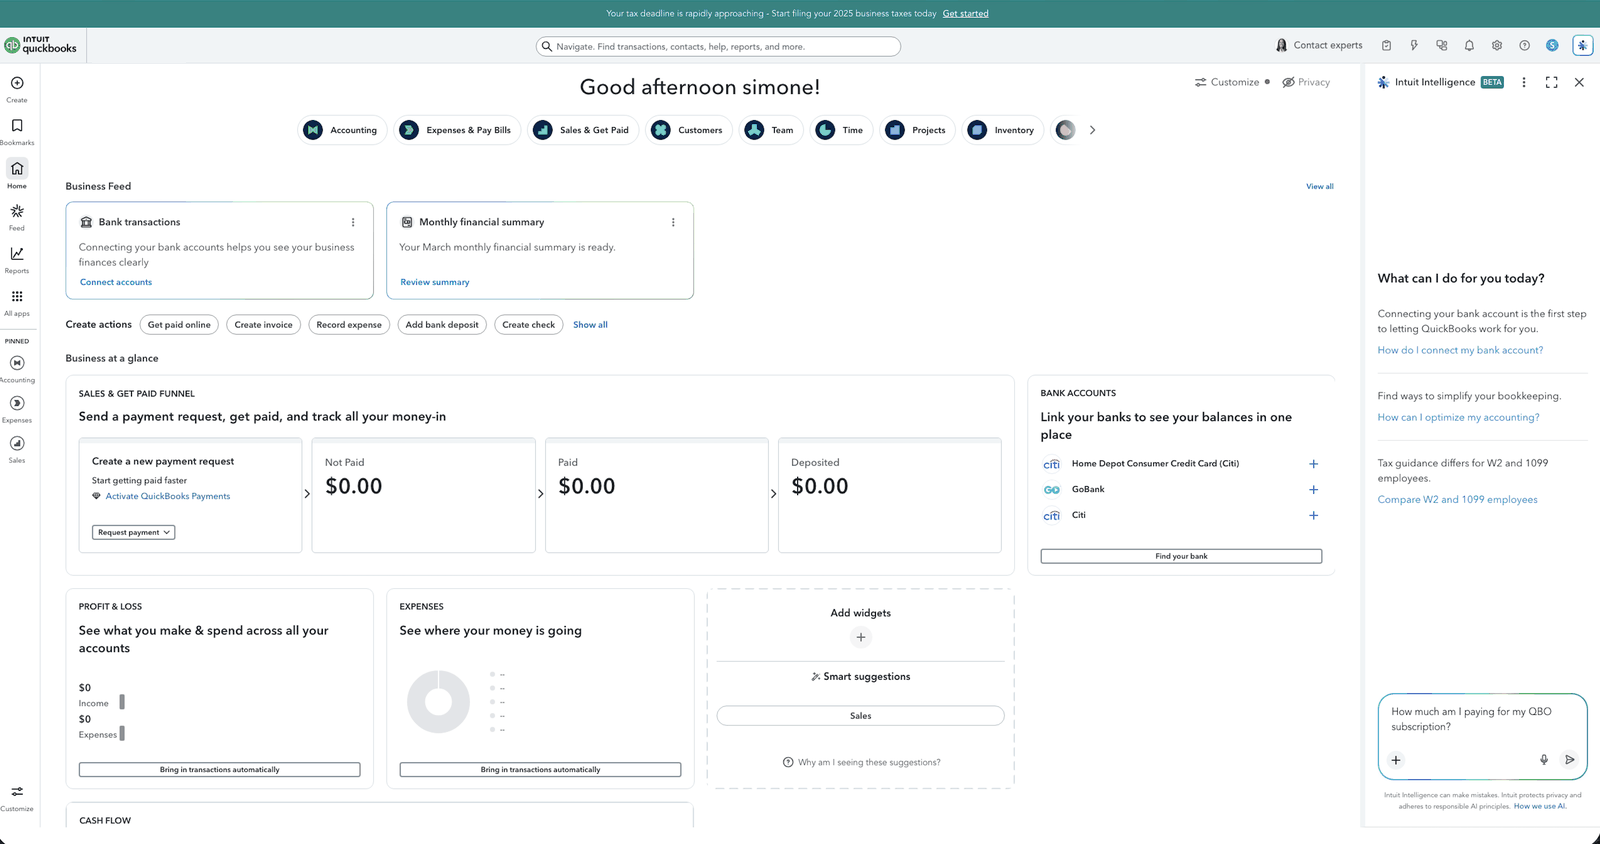
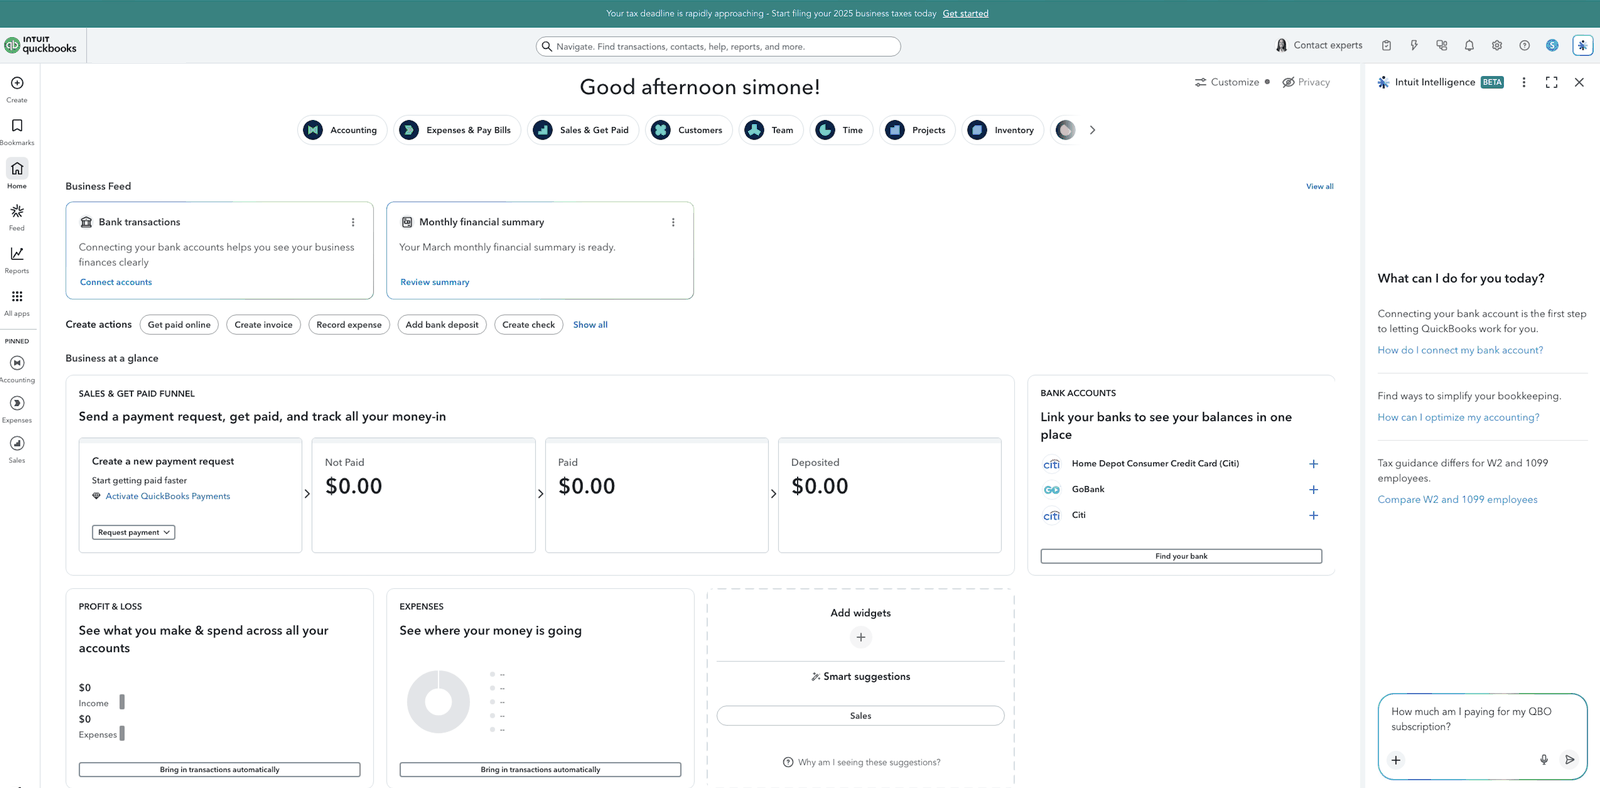
Apply review-pass fixes: card and artifact updates across homepage and case pages

diff --git a/cancellation-saves.html b/cancellation-saves.html
@@ -6,7 +6,7 @@
 <meta name="color-scheme" content="light">
 <meta name="description" content="QuickBooks customers cancel for a dozen different reasons, and the reason determines whether a specialist can save them. Case 05: the saves flow that asked why, the LLM classifier behind the routing, and screen recordings of both paths.">
 <meta property="og:title" content="Cancellation saves &middot; Simone Muro">
-<meta property="og:description" content="The saves flow that asked why customers cancel, and the LLM classifier that took reason coverage from 60 to 96 percent, with 96.6% routing precision, at $63 a month. The shipped prompt and both routes on the page.">
+<meta property="og:description" content="The saves flow that asked why customers cancel, and the LLM classifier that took reason coverage from 60 to 96 percent, with 96.6% routing precision. The shape of the classifier prompt and both routes on the page.">
 <meta property="og:type" content="article">
 <meta property="og:url" content="https://simonemuro.github.io/cancellation-saves.html">
 <meta name="twitter:card" content="summary">
@@ -55,6 +55,12 @@
       <div><dt>Context</dt><dd>Thousands of cancellation calls over three months through the saves flow; savability rules from the saves and retention teams</dd></div>
       <div><dt>Results</dt><dd>Routing precision 96.6%, measured across about 300 utterances at 90% confidence; reasons classified 60% to 96% in evaluation; Responsible AI approved with no hallucination, profanity, bias, or toxicity findings</dd></div>
     </dl>
+
+    <figure class="vid-shot shot-solo">
+      <div class="shot-head"><span class="mono">the ask-why moment</span><span class="mono">frame from my screen recording</span></div>
+      <img src="assets/work/cancel-ask-why-frame.png" alt="Chat frame: the assistant confirms the customer wants to cancel, asks why they are cancelling, and the customer answers they have not used the product yet" width="720" height="786" loading="lazy">
+      <p class="wf-label">From my July 2023 screen recording of the working flow, test account. Both full recordings are in the results section.</p>
+    </figure>
 
     <div class="lab-hero" aria-label="Cancellation classifier overview">
       <div class="proof-copy">
@@ -214,47 +220,36 @@
     <p class="kicker mono part-head"><span class="knum">06</span><span>The prompt</span></p>
     <h2 id="p6-h">The guidelines, compiled into instructions.</h2>
     <div class="prose">
-      <p>The build is a hybrid of the two eras. The intent model does what it was always good at: recognizing that a cancellation is happening. The classifier does what intents couldn&rsquo;t: reading why. The low-code tool between them parses the JSON, applies the savability rules, and routes the call. Here&rsquo;s the classifier prompt, redacted, otherwise as shipped, with the guidelines marked where they became instructions.</p>
+      <p>The build is a hybrid of the two eras. The intent model does what it was always good at: recognizing that a cancellation is happening. The classifier does what intents couldn&rsquo;t: reading why. The low-code tool between them parses the JSON, applies the savability rules, and routes the call. Here&rsquo;s the shape of the classifier prompt, with the guidelines marked where they became instructions.</p>
     </div>
 
     <div class="shot-annotated">
-      <figure class="trace" aria-label="Redacted excerpt of the production classifier prompt">
+      <figure class="trace" aria-label="Condensed mock of the classifier prompt structure">
         <figcaption class="trace-hd mono">
           <span>artifact &middot; the classifier prompt</span>
-          <span>redacted excerpt &middot; as built, 2023</span>
+          <span>mock &middot; condensed for privacy</span>
         </figcaption>
-<pre class="prompt-pre">You are a classification assistant. Your only task is to
-evaluate a customer's provided reason for canceling a
-subscription and return a structured JSON object.
+<pre class="prompt-pre">You are a classification assistant. Evaluate a
+customer's reason for canceling and return a
+structured JSON object.  &hellip;
 
-- "cancellation_reason": a short label summarizing the
-  reason, such as: "too expensive" &middot; "switching products"
-  &middot; "not using it" &middot; "duplicate accounts" &middot; "business
-  closure" &middot; "retiring" &middot; "bad customer experience"
-  &middot; "missing features" &middot; "support issues" &middot; or another
-  concise, accurate label.
+- "cancellation_reason": a short label
+  summarizing the reason  &hellip;
 
-- "is_savable":
-  false if the reason is final and unlikely to be saved
-        (e.g., retirement, business closure, duplicate
-        accounts).
-  true  for all other reasons.
+- "is_savable": false if the reason is final
+  and unlikely to be saved  &hellip;
+  true for all other reasons.
 
-- "reason_acknowledgment": a short, neutral message that
-  acknowledges the customer's reason. Be respectful and
-  professional. Do not show emotion or make assumptions.
-  Do not offer help or take action in this field.
+- "reason_acknowledgment": a short, neutral
+  message  &hellip;  Do not offer help or take
+  action in this field.
 
-- "connect_to_expert_message": if "is_savable" is true,
-  a brief, contextual message offering to connect the
-  customer with an expert who may be able to help with
-  the issue they mentioned. Do not make promises or
-  assess the situation. If the reason is not savable,
-  set this field to an empty string.
+- "connect_to_expert_message": if "is_savable"
+  is true, a brief message offering to connect
+  the customer with an expert  &hellip;
 
-Return valid JSON output only.
-Customer feedback: ```${customer_feedback}```</pre>
-        <p class="trace-foot">excerpt of the production prompt &middot; one runtime variable renamed, branded terms generalized, one field and a worked example omitted &middot; categories, defaults, and the output contract unchanged</p>
+Return valid JSON output only.</pre>
+        <p class="trace-foot">modified to protect confidential work &middot; the fields and rules shown are faithful to the shipped behavior</p>
       </figure>
       <div class="note-rail" role="group" aria-label="Annotations mapping the guidelines to prompt instructions">
         <p class="note"><b>their rules, encoded</b>The final-reasons list in &ldquo;is_savable&rdquo; is the retention team&rsquo;s guideline, verbatim in spirit: retirement, closure, duplicates.</p>
@@ -325,7 +320,6 @@ Customer feedback: ```${customer_feedback}```</pre>
     <div class="stats" role="list" aria-label="Measured outcomes">
       <div role="listitem"><span class="num">96.6%</span><span class="lab">routing precision: the share of cancellations sent to the saves queue that were truly savable, measured on about 300 real customer utterances at 90 percent confidence</span></div>
       <div role="listitem"><span class="num">60% to 96%</span><span class="lab">cancellation reasons classified, in evaluation, where four months of intent tuning had stalled</span></div>
-      <div role="listitem"><span class="num">$63 a month</span><span class="lab">run cost for the classifier, $756 a year; the intent-tuning cycles it replaced took six plus months of development each</span></div>
       <div role="listitem"><span class="num">12% saved</span><span class="lab">by the 2022 ask-why flow against a 5 percent target, directional and expert-reported, across thousands of cancellation calls over three months</span></div>
     </div>
 

diff --git a/index.html b/index.html
@@ -4,7 +4,7 @@
 <meta charset="UTF-8">
 <meta name="viewport" content="width=device-width, initial-scale=1">
 <meta name="color-scheme" content="light">
-<meta name="description" content="Simone Muro designs and builds agentic AI experiences: model behavior, AI product strategy, experience design, and eval systems. Seven case studies across the NLU, LLM, and agentic eras.">
+<meta name="description" content="Simone Muro designs and builds agentic AI experiences: model behavior, AI product strategy, experience design, and eval systems. Six case studies across the LLM and agentic eras.">
 <meta property="og:title" content="Simone Muro · Agentic AI design and product craft">
 <meta property="og:description" content="Agent behavior design, AI product ownership, experience strategy, and eval systems across Meta, Apple Siri, Sam's Club, Intuit, and Credit Karma.">
 <meta property="og:type" content="website">
@@ -56,12 +56,12 @@
   <section class="shell work work-simple" id="work" aria-labelledby="work-h">
     <div class="work-heading io" style="--d:0">
       <p class="eyebrow mono">Selected work</p>
-      <h2 id="work-h">Seven cases across three eras of AI.</h2>
+      <h2 id="work-h">Six cases, from LLM classifiers to agent skills.</h2>
     </div>
     <div class="project-grid">
       <article class="project-card featured io" style="--d:1">
         <a class="project-image real-ui" href="billing-skill.html" aria-label="Open billing skill case study">
-          <img src="assets/work/billing-home-intuit-ui.png" alt="QuickBooks home screen with the Intuit Intelligence panel open for a subscription-cost question">
+          <img src="assets/work/billing-home-intuit-ui.png?v=2" alt="QuickBooks home screen with the Intuit Intelligence panel open for a subscription-cost question">
         </a>
         <div class="project-body">
           <p class="project-meta mono">Billing skill · agentic era</p>
@@ -71,19 +71,8 @@
       </article>
 
       <article class="project-card io" style="--d:2">
-        <a class="project-image real-ui portrait-ui" href="charge-lookup.html" aria-label="Open charge lookup case study">
-          <img src="assets/work/charge-lookup-mvp-mock.png" alt="Recreated support assistant chat classifying a charge question and offering the charge lookup tool inside the conversation">
-        </a>
-        <div class="project-body">
-          <p class="project-meta mono">Charge lookup · NLU era</p>
-          <h3><a href="charge-lookup.html">Redesigned how the assistant answers &ldquo;what is this charge?&rdquo;</a></h3>
-          <p>Customers could see the amount anywhere and the reason nowhere. I redesigned the assistant to tell one billing question from another and answer in the flow. Voice self-help acceptance 25% to 39%; chat self-help resolution up 12 points.</p>
-        </div>
-      </article>
-
-      <article class="project-card io" style="--d:3">
         <a class="project-image real-ui" href="cancellation-saves.html" aria-label="Open Cancellation Saves case study">
-          <img src="assets/video/cancel-flow-savable-poster.png" alt="Screen recording poster: the cancellation flow hearing a customer's reason before routing">
+          <img src="assets/work/cancel-ask-why-card.png" alt="Screen recording frame: the flow confirms the cancellation, asks why, and the customer answers they have not used the product yet">
         </a>
         <div class="project-body">
           <p class="project-meta mono">Cancellation saves · LLM era</p>
@@ -92,7 +81,7 @@
         </div>
       </article>
 
-      <article class="project-card io" style="--d:4">
+      <article class="project-card io" style="--d:3">
         <a class="project-image real-ui portrait-ui" href="voice.html" aria-label="Open voice case study">
           <img src="assets/work/voice-snippet-card.png" alt="QuickBooks voice assistant transcript showing a caller clarifying a bank connection error">
         </a>
@@ -103,7 +92,7 @@
         </div>
       </article>
 
-      <article class="project-card io" style="--d:5">
+      <article class="project-card io" style="--d:4">
         <a class="project-image real-ui" href="credit-karma.html" aria-label="Open Credit Karma case study">
           <img src="assets/work/credit-karma-real-ui.jpg" alt="Credit Karma mobile card marketplace screenshot showing a financial assistant entry point">
         </a>
@@ -114,7 +103,7 @@
         </div>
       </article>
 
-      <article class="project-card io" style="--d:6">
+      <article class="project-card io" style="--d:5">
         <a class="project-image real-ui portrait-ui" href="payroll-intelligence.html" aria-label="Open payroll tax skill case study">
           <img src="assets/work/payroll-card.png" alt="Intuit Intelligence payroll tax setup response with account-aware guidance">
         </a>
@@ -125,9 +114,9 @@
         </div>
       </article>
 
-      <article class="project-card io" style="--d:7">
+      <article class="project-card io" style="--d:6">
         <a class="project-image" href="quality-program.html" aria-label="Open quality program case study">
-          <img src="assets/work/quality-qa-report.png" alt="QA report artifact from the golden-dataset pipeline: twelve automated checks, all passing">
+          <img src="assets/work/quality-row-anatomy.png" alt="Golden-dataset row anatomy: the fields that define good agent behavior for one customer query, from the question to the early-stop condition">
         </a>
         <div class="project-body">
           <p class="project-meta mono">Quality program · agentic era</p>

diff --git a/billing-skill.html b/billing-skill.html
@@ -51,6 +51,12 @@
       <div><dt>When</dt><dd>Five-day internal hackathon, May 2026, on billing research from my Digital Assistant years</dd></div>
       <div><dt>Results</dt><dd>Working prototype with a cancel-intercept widget; 108-case golden dataset, offline eval passed; leadership buy-in to implement</dd></div>
     </dl>
+
+    <figure class="vid-shot shot-solo shot-solo-wide">
+      <div class="shot-head"><span class="mono">the question, as customers ask it</span><span class="mono">intuit intelligence</span></div>
+      <img src="assets/work/billing-three-charges-real-ui.jpg" alt="Real Intuit Intelligence screenshot: a customer asks why they are being charged three times monthly and gets a list of generic reasons with a link to billing settings" width="1346" height="1021" loading="lazy">
+      <p class="wf-label">Real Intuit Intelligence screenshot, cropped to protect account and session details.</p>
+    </figure>
   </section>
 
   <!-- ================= 01 · the problem ================= -->
@@ -63,7 +69,7 @@
 
     <div class="shot-annotated">
       <figure class="shot">
-        <img src="assets/work/billing-before-generic-answer-ui.png" alt="Real Intuit Intelligence screenshot: asked how much they are paying, the customer gets an answer that their cost depends on their plan and add-ons, with a pointer to QuickBooks.com for pricing" width="584" height="1842" loading="lazy">
+        <img src="assets/work/billing-before-generic-answer-ui.png" alt="Real Intuit Intelligence screenshot: asked how much they are paying, the customer gets an answer that their cost depends on their plan and add-ons, with a pointer to QuickBooks.com for pricing" width="584" height="800" loading="lazy">
         <p class="wf-label">Real Intuit Intelligence screenshot, cropped to protect account and session details.</p>
       </figure>
       <div class="note-rail" role="group" aria-label="Annotations">
@@ -437,7 +443,7 @@ Time Premium   $50   20base + 10 x 3 users</div>
           </table>
         </div>
       </div>
-      <p class="wf-label">Real dataset rows. Test-account credentials and run identifiers removed; the amounts are the test account&rsquo;s mock data.</p>
+      <p class="wf-label">Dataset rows shown with mock account data to protect customer and company information; credentials and run identifiers removed.</p>
     </div>
 
     <div class="prose">
@@ -457,7 +463,7 @@ Time Premium   $50   20base + 10 x 3 users</div>
       </div>
       <div>
         <span class="ol-when">leadership review</span>
-        <p class="ol-what"><b>Presented the prototype and the process</b> to my group manager, the director, and product managers, and got buy-in to implement the skill with product development.</p>
+        <p class="ol-what"><b>Presented the prototype and the process</b> to leadership several levels up and to product partners, and got buy-in to build it with product development.</p>
       </div>
       <div>
         <span class="ol-when">state of the build</span>

diff --git a/v6.css b/v6.css
@@ -60,6 +60,7 @@ body.v5 .shot-annotated{
   gap:22px;align-items:start;margin:34px 0;
 }
 body.v5 .shot-annotated .shot{margin:0;}
+body.v5 .shot-annotated .shot img{display:block;width:100%;height:auto;max-width:480px;}
 body.v5 .shot-annotated > *{min-width:0;}
 body.v5 .note-rail{display:flex;flex-direction:column;gap:14px;}
 body.v5 .note{
@@ -399,11 +400,16 @@ body.v5 .qba-agent{
 
 /* ---------- screen-recording frames ---------- */
 body.v5 .vid-shot{margin:0;}
-body.v5 .vid-shot video{
+body.v5 .vid-shot video,
+body.v5 .vid-shot img{
   display:block;width:100%;height:auto;
   border:1px solid var(--hair-strong);border-radius:10px;
   background:#fff;
 }
+body.v5 .vid-shot.shot-solo{max-width:430px;margin-top:clamp(26px,4vh,44px);}
+body.v5 .titleblock > .shot-solo{order:4;}
+body.v5 .vid-shot.shot-solo.shot-solo-wide{max-width:640px;}
+body.v5 .vid-shot.shot-solo .shot-head{min-height:0;}
 body.v5 .vid-shot .shot-head{
   display:flex;justify-content:space-between;gap:8px 14px;flex-wrap:wrap;
   margin-bottom:10px;align-content:flex-start;

diff --git a/voice.html b/voice.html
@@ -335,13 +335,13 @@ gerunds, and passive sentence constructions.</code></pre>
     </details>
 
     <div class="prose">
-      <p class="opens">Then the part of the plan I&rsquo;d show any team shipping a first generative experience on a phone line: how it was released. The release didn&rsquo;t go straight to the full line. I recommended the invoicing intent on purpose: tenth by call volume, about 2 percent of it, most questions straightforward, no special expert tools required, and containment sitting at about 24 percent against an assistant average of 29. Low risk, with room to move.</p>
+      <p class="opens">Then the part of the plan I&rsquo;d show any team shipping a first generative experience on a phone line: how it was released. The release didn&rsquo;t go straight to the full line. I recommended the invoicing intent on purpose: a small slice of call volume, most questions straightforward, no special expert tools required, and containment sitting below the assistant&rsquo;s average. Low risk, with room to move.</p>
     </div>
 
     <figure class="trace" aria-label="The release plan: one low-risk intent, 50 customers first, a risk threshold, then a percentage throttle">
       <figcaption class="trace-hd mono"><span>release plan &middot; one intent, throttled</span><span>as planned</span></figcaption>
       <ol class="trace-rows">
-        <li><span class="t-time" aria-hidden="true">01</span><div><code>choose &#8594; <b>invoicing</b></code> &middot; tenth by call volume, about 2 percent of it &middot; low risk, headroom to move</div></li>
+        <li><span class="t-time" aria-hidden="true">01</span><div><code>choose &#8594; <b>invoicing</b></code> &middot; a small slice of call volume &middot; simple questions, no expert tools</div></li>
         <li><span class="t-time" aria-hidden="true">02</span><div><code>expose &#8594; <b>50 customers</b></code> &middot; a first release through rapid experimentation, watched turn by turn</div></li>
         <li><span class="t-time" aria-hidden="true">03</span><div><code>gate &#8594; <b>risk threshold</b></code> &middot; hold at a subset of sessions until a Bayesian risk threshold is met</div></li>
         <li><span class="t-time" aria-hidden="true">04</span><div><code>throttle &#8594; <b>5, 10, 25, 50 percent</b></code> &middot; each step earned by the one before it</div></li>

diff --git a/charge-lookup.html b/charge-lookup.html
@@ -141,7 +141,6 @@
         <p>The supportability teams confirmed the core pattern: customers called because they wanted an explanation. Some calls turned into downgrades or cancellations, and many transferred internally when discount extensions or refunds required a higher tier.</p>
       </div>
       <div class="impact-panel" aria-label="Business scale and outcome context">
-        <div><span class="big">100,000s</span><span class="label">of annual billing and subscription support contacts</span></div>
         <div><span class="big">Top 20</span><span class="label">company contact-reduction driver</span></div>
       </div>
     </div>